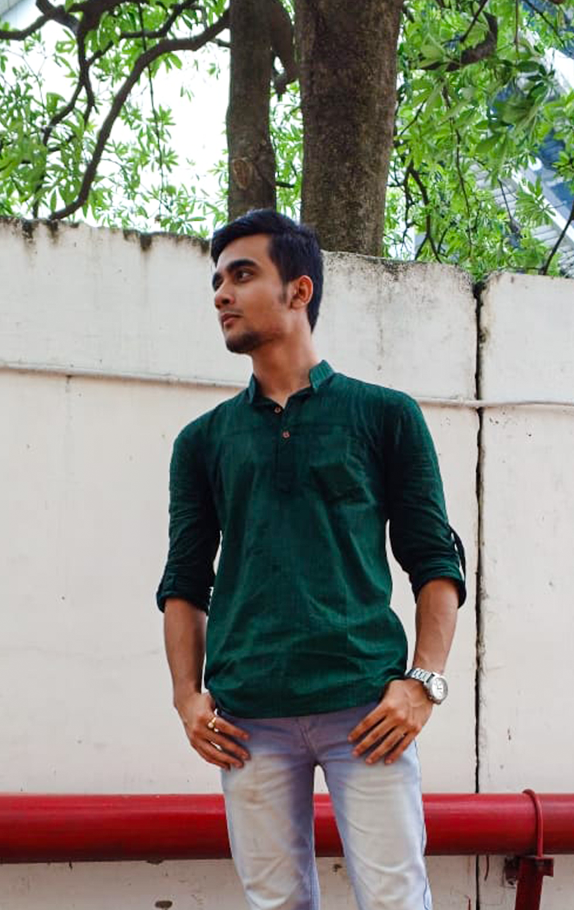
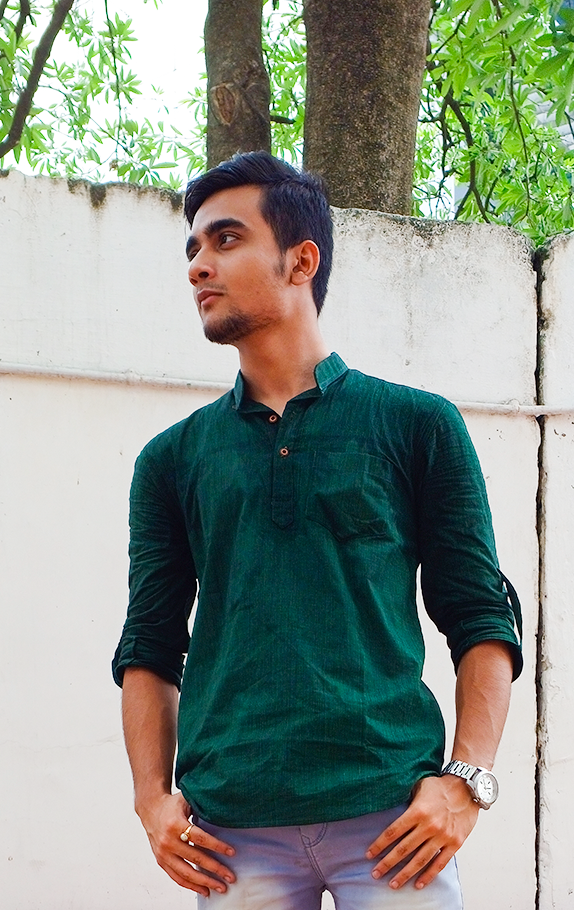
about done

diff --git a/src/components/about/About.css b/src/components/about/About.css
@@ -1,0 +1,100 @@
+.about__container {
+  display: grid;
+  grid-template-columns: 35% 50%;
+  gap: 15%;
+}
+.about__me {
+  width: 100%;
+  aspect-ratio: 1/1;
+  border-radius: 2rem;
+  background: linear-gradient(
+    45deg,
+    transparent,
+    var(--color-primary),
+    transparent
+  );
+  display: grid;
+  place-items: center;
+}
+
+.about__me-image {
+  border-radius: 2rem;
+  overflow: hidden;
+  transform: rotate(10deg);
+  transition: var(--transition);
+}
+.about__me-image:hover {
+  transform: rotate(0deg);
+}
+
+.about__cards {
+  display: grid;
+  grid-template-columns: repeat(3, 1fr);
+  gap: 1.5rem;
+}
+.about__card {
+  background: var(--color-bg-variant);
+  border: 1px solid transparent;
+  border-radius: 1rem;
+  padding: 2rem;
+  text-align: center;
+  transition: var(--transition);
+}
+.about__card:hover {
+  background: transparent;
+  border-color: var(--color-primary-variant);
+  cursor: default;
+}
+
+.about__icon {
+  color: var(--color-primary);
+  font-size: 1.4rem;
+  margin-bottom: 1rem;
+}
+.about__card h5 {
+  font-size: 0.95rem;
+}
+.about__card small {
+  font-size: 0.7rem;
+  color: var(--color-light);
+}
+
+.about__content p {
+  margin: 2rem 0 2.6rem;
+  color: var(--color-light);
+}
+
+/* ======================Media Queries(Medium Devices)==================================== */
+@media screen and (max-width: 1024px) {
+  .about__container {
+    grid-template-columns: 1fr;
+    gap: 0;
+  }
+  .about__me {
+    width: 50%;
+    margin: 2rem auto 4rem;
+  }
+
+  .about__content p {
+    margin: 1rem 0 1.5rem;
+  }
+}
+
+/* ======================Media Queries(Small Devices)==================================== */
+@media screen and (max-width: 600px) {
+  .about__me {
+    width: 65%;
+    margin: 0 auto 3rem;
+  }
+
+  .about__cards {
+    grid-template-columns: 1fr 1fr;
+    gap: 1rem;
+  }
+  .about__content {
+    text-align: center;
+  }
+  .about__content p {
+    margin: 1.5rem 0;
+  }
+}

diff --git a/src/components/about/About.jsx b/src/components/about/About.jsx
@@ -1,8 +1,55 @@
 import React from "react";
 import "./About.css";
+import ME from "../../assets/me-about.png";
+import { BsTwitch } from "react-icons/bs";
+import { BsFillFolderFill } from "react-icons/bs";
+import { BsFacebook } from "react-icons/bs";
 
 const About = () => {
-  return <section id="about">About</section>;
+  return (
+    <section id="about">
+      <h5>Get to Know</h5>
+      <h2>About Me</h2>
+
+      <div className="container about__container">
+        <div className="about__me">
+          <div className="about__me-image">
+            <img src={ME} alt="About Image" />
+          </div>
+        </div>
+
+        <div className="about__content">
+          <div className="about__cards">
+            <article className="about__card">
+              <BsTwitch className="about__icon" />
+              <h5>Streaming</h5>
+              <small>Twitch Affiliated</small>
+            </article>
+            <article className="about__card">
+              <BsFacebook className="about__icon" />
+              <h5>Content Creator</h5>
+              <small>More than 1M+ views</small>
+            </article>
+            <article className="about__card">
+              <BsFillFolderFill className="about__icon" />
+              <h5>Projects</h5>
+              <small>5+</small>
+            </article>
+          </div>
+
+          <p>
+            Hello, I'm Dipayan Banik, a student of computer application. Having
+            great enthusiast in Graphic Designing and Gaming. Currently,
+            learning front end development and this portfolio is an instance of
+            that. Thank you.
+          </p>
+          <a href="#contact" className="btn btn-primary">
+            Ping Me
+          </a>
+        </div>
+      </div>
+    </section>
+  );
 };
 
 export default About;

diff --git a/src/components/header/Header.jsx b/src/components/header/Header.jsx
@@ -8,9 +8,9 @@ const Header = () => {
   return (
     <header>
       <div className="container header__container">
-        <h5>Hello I'm</h5>
+        <h5>Hey Wassup, I'm</h5>
         <h1>Dipayan Banik</h1>
-        <h5 className="text-light">FullStack Developer</h5>
+        <h5 className="text-light">Web Developer and Gamer</h5>
         <CTA />
         <HeaderSocials />
         <div className="me">

diff --git a/src/index.css b/src/index.css
@@ -10,9 +10,9 @@
   text-decoration: none;
 }
 :root {
-  --color-bg: #1f1f38;
-  --color-bg-variant: #2c2c6c;
-  --color-primary: #4db5ff;
+  --color-bg: #101820ff;
+  --color-bg-variant: #0a340c;
+  --color-primary: rgb(24, 158, 12);
   --color-primary-variant: rgba(77, 181, 255, 0.4);
   --color-white: #fff;
   --color-light: rgba(255, 255, 255, 0.6);

diff --git a/src/components/header/CTA.jsx b/src/components/header/CTA.jsx
@@ -5,10 +5,10 @@ const CTA = () => {
   return (
     <div className="cta">
       <a href={Dipayan} download className="btn">
-        Downlaod
+        Downlaod CV
       </a>
       <a href="#contact" className="btn btn-primary">
-        Lets talk
+        Ping Me
       </a>
     </div>
   );

diff --git a/src/components/header/Header.css b/src/components/header/Header.css
@@ -49,10 +49,10 @@ header {
 }
 .laura {
   width: 22rem;
-  height: 36rem;
+  height: 40rem;
   position: absolute;
   left: calc(50% - 11rem);
-  margin-top: -5rem;
+  margin-top: -6rem;
   border-radius: 30rem 30rem 0rem 0rem;
   overflow: hidden;
   padding: 4rem 1.5rem 1.5rem 1.5rem;
